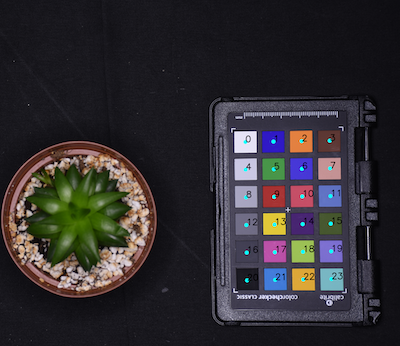
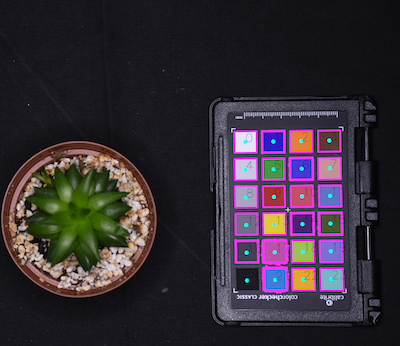
replace docs image with updated debug

Changed region(s): [[0.57, 0.3468, 0.87, 0.8671]]

diff --git a/plantcv/plantcv/transform/detect_color_card.py b/plantcv/plantcv/transform/detect_color_card.py
@@ -144,7 +144,7 @@ def detect_color_card(rgb_img, label=None, **kwargs):
 
     # Draw filtered contours on debug img
     debug_img = np.copy(rgb_img)
-    cv2.drawContours(debug_img, filtered_contours, -1, color=(255, 50, 250), thickness=-1) 
+    cv2.drawContours(debug_img, filtered_contours, -1, color=(255, 50, 250), thickness=params.line_thickness) 
     # Initialize chip shape lists
     marea, mwidth, mheight = _get_contour_sizes(filtered_contours)
 
@@ -191,4 +191,4 @@ def detect_color_card(rgb_img, label=None, **kwargs):
     # Debugging
     _debug(visual=debug_img, filename=os.path.join(params.debug_outdir, f'{params.device}_color_card.png'))
 
-    return labeled_mask
+    return labeled_mask, debug_img
